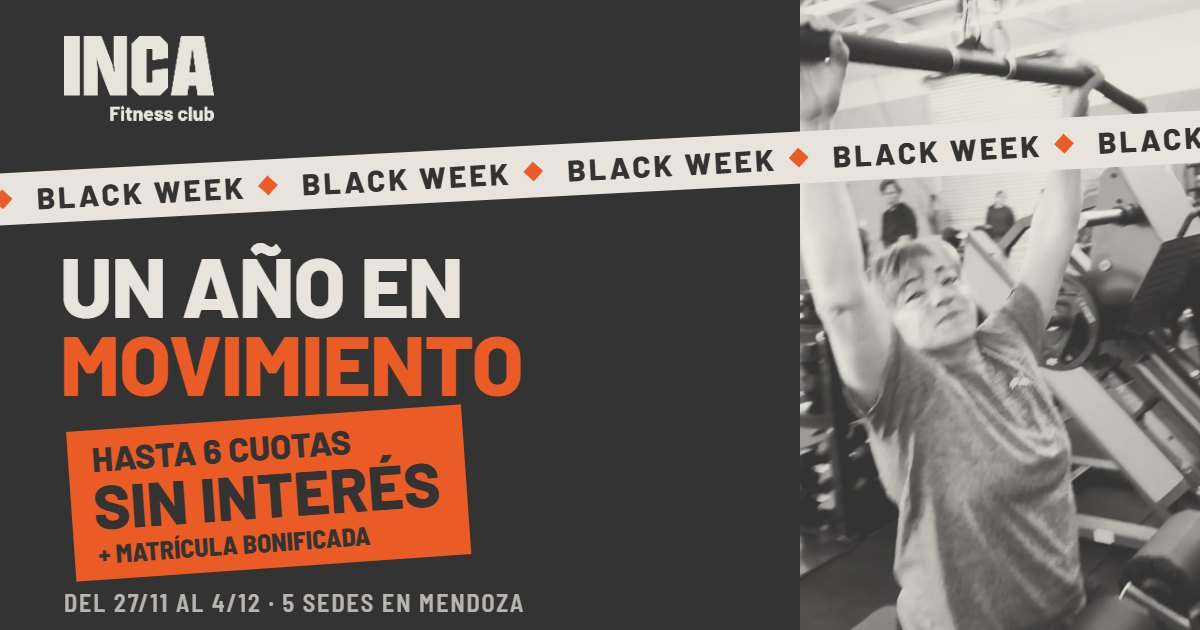
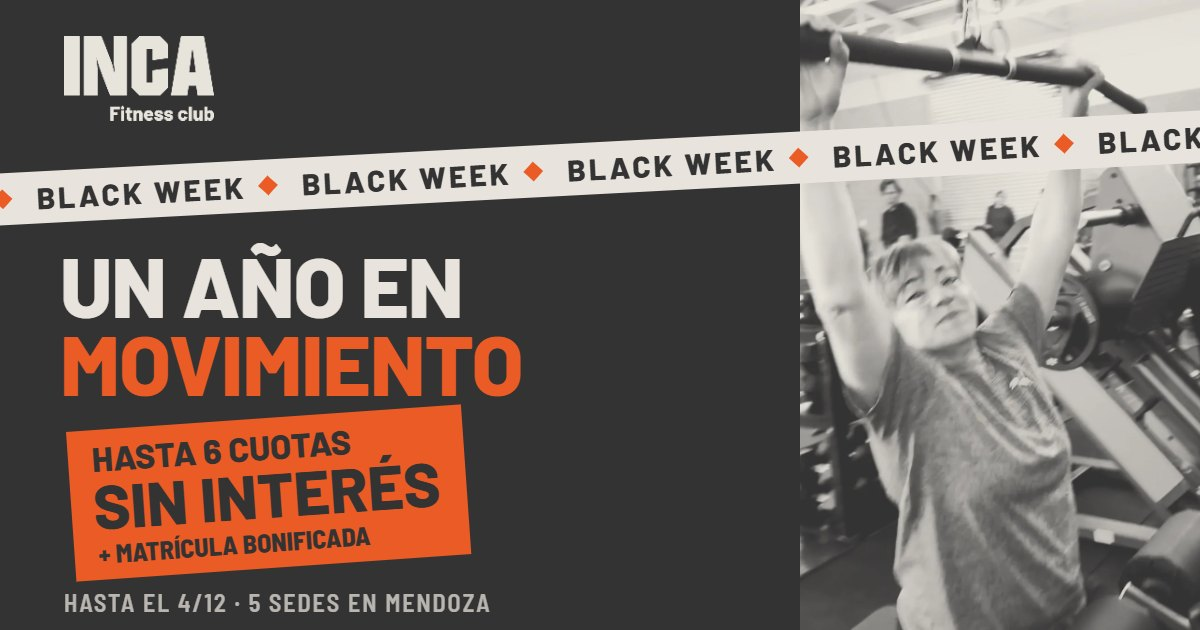
Add files via upload

Changed region(s): [[0.0617, 0.9349, 0.4317, 0.9952]]

diff --git a/index.html b/index.html
@@ -4,7 +4,7 @@
   <meta charset="utf-8">
   <meta name="viewport" content="width=device-width, initial-scale=1, viewport-fit=cover">
   <title>Plan anual · Black Week · Inca Fitness Club</title>
-  <meta name="description" content="Black Week en Inca Fitness Club: plan anual con matrícula bonificada y hasta 6 cuotas sin interés. Del viernes 27/11 al viernes 4/12 en las 5 sedes de Mendoza.">
+  <meta name="description" content="Black Week en Inca Fitness Club: plan anual con matrícula bonificada y hasta 6 cuotas sin interés. Hasta el viernes 4/12 en las 5 sedes de Mendoza.">
   <meta name="theme-color" content="#343333">
   <link rel="canonical" href="https://promociones.incafitnessclub.com/">
 
@@ -13,7 +13,7 @@
   <meta property="og:locale" content="es_AR">
   <meta property="og:site_name" content="Inca Fitness Club">
   <meta property="og:title" content="Black Week Inca · Un año en movimiento">
-  <meta property="og:description" content="Plan anual con matrícula bonificada y hasta 6 cuotas sin interés. Del 27/11 al 4/12 en las 5 sedes de Mendoza.">
+  <meta property="og:description" content="Plan anual con matrícula bonificada y hasta 6 cuotas sin interés. Hasta el 4/12 en las 5 sedes de Mendoza.">
   <meta property="og:url" content="https://promociones.incafitnessclub.com/">
   <meta property="og:image" content="https://promociones.incafitnessclub.com/assets/img/og-imagen.jpg">
   <meta property="og:image:width" content="1200">
@@ -31,7 +31,7 @@
   <link rel="preload" href="assets/video/inca-sede-poster.webp" as="image" type="image/webp">
   <link rel="stylesheet" href="css/styles.css?v=3">
   <script>document.documentElement.className=document.documentElement.className.replace('no-js','js');</script>
-  <script src="promos.js?v=4" defer></script>
+  <script src="promos.js?v=5" defer></script>
   <script src="js/main.js?v=3" defer></script>
 </head>
 <body>
@@ -72,7 +72,7 @@
 
     <div class="portada__accion">
       <div class="contador" data-contador>
-        <p class="contador__label" data-contador-label>Del viernes 27/11 al viernes 4/12</p>
+        <p class="contador__label" data-contador-label>Termina el viernes 4/12 · 23:59</p>
         <div class="contador__cajas" data-contador-cajas hidden aria-hidden="true">
           <span class="contador__caja"><b data-c="d">0</b><small>días</small></span>
           <span class="contador__caja"><b data-c="h">00</b><small>horas</small></span>
@@ -114,7 +114,7 @@
       <li>Plan anual, 12 meses para entrenar en la sede donde lo adquirís.</li>
       <li>Precio final: $780.000 en todas las sedes, con matrícula bonificada.</li>
       <li>Con tarjeta de crédito, en 1, 3 o 6 cuotas sin interés, según las tarjetas habilitadas en el portal de pago. También por débito directo (CBU).</li>
-      <li>Promo válida para compras del viernes 27/11/2026 a las 00:00 al viernes 4/12/2026 a las 23:59 (hora de Argentina).</li>
+      <li>Promo válida para compras realizadas hasta el viernes 4/12/2026 a las 23:59 (hora de Argentina).</li>
     </ul>
   </div>
 </section>
@@ -225,7 +225,7 @@
     <div class="faq__lista" data-reveal>
       <details class="pregunta">
         <summary>¿Hasta cuándo puedo comprar la promo?</summary>
-        <p>Del viernes 27/11 a las 00:00 al viernes 4/12 a las 23:59 (hora de Argentina).</p>
+        <p>Hasta el viernes 4/12 a las 23:59 (hora de Argentina).</p>
       </details>
       <details class="pregunta">
         <summary>¿Cuánto sale?</summary>
@@ -275,7 +275,7 @@
   <div class="wrap cierre__inner">
     <p class="sello sello--carbon" data-sello aria-hidden="true"><span class="sello__a" data-sello-cierre>Hasta el viernes 4/12 · 23:59</span></p>
     <h2 class="titulo cierre__titulo" id="titulo-cierre" data-titulo><span>Tu año en movimiento empieza con un sí</span></h2>
-    <p class="estado estado--cierre" data-estado aria-live="polite">Promo válida del viernes 27/11 al viernes 4/12.</p>
+    <p class="estado estado--cierre" data-estado aria-live="polite">Promo válida hasta el viernes 4/12 a las 23:59.</p>
     <a class="btn btn--carbon" href="#sedes" data-abrir-sedes>
       <span class="btn__txt" data-cta-texto>Quiero mi plan anual</span>
       <svg class="btn__flecha" viewBox="0 0 24 24" fill="none" stroke="currentColor" stroke-width="3" aria-hidden="true"><path d="M4 12h15M13 5l7 7-7 7"/></svg>
@@ -298,7 +298,7 @@
     </div>
     <div class="pie__legal">
       <h2 class="pie__titulo">Condiciones generales</h2>
-      <p>Promo Black Week válida para compras realizadas del 27/11/2026 a las 00:00 al 4/12/2026 a las 23:59 (hora de Argentina), o hasta que Inca Fitness Club la dé por finalizada. Plan anual de 12 meses para una sola sede, elegida al momento de la compra. Precio final: $780.000 en pesos argentinos, con matrícula bonificada. Pago online a través de PagoTIC: tarjeta de crédito en 1, 3 o 6 cuotas sin interés según las tarjetas habilitadas, o débito directo (CBU). Datos de cada razón social en <a href="terminos.html" style="color:var(--crema)">Términos y condiciones</a>.</p>
+      <p>Promo Black Week válida para compras realizadas hasta el 4/12/2026 a las 23:59 (hora de Argentina), o hasta que Inca Fitness Club la dé por finalizada. Plan anual de 12 meses para una sola sede, elegida al momento de la compra. Precio final: $780.000 en pesos argentinos, con matrícula bonificada. Pago online a través de PagoTIC: tarjeta de crédito en 1, 3 o 6 cuotas sin interés según las tarjetas habilitadas, o débito directo (CBU). Datos de cada razón social en <a href="terminos.html" style="color:var(--crema)">Términos y condiciones</a>.</p>
       <ul class="pie__links">
         <li><a href="terminos.html">Términos y condiciones</a></li>
         <li><a href="https://www.argentina.gob.ar/produccion/defensadelconsumidor/formulario" rel="noopener" target="_blank">Defensa de las y los Consumidores. Para reclamos ingrese aquí</a></li>

diff --git a/promos.js b/promos.js
@@ -32,9 +32,10 @@ window.INCA = {
     nombre: "Plan anual",
 
     // Fechas de VENTA (hora de Argentina).
-    // Antes de "ventaDesde": la página muestra "Arranca el..." y el botón avisa por WhatsApp.
+    // "ventaDesde" vacío = la promo ya está activa. Si ponés una fecha futura, antes de esa
+    // fecha la página muestra "Arranca el..." y el botón avisa por WhatsApp.
     // Después de "ventaHasta": muestra "La promo terminó".
-    ventaDesde: "2026-11-27T00:00:00-03:00",
+    ventaDesde: "",
     ventaHasta: "2026-12-04T23:59:59-03:00",
 
     // Primera pantalla [REVISAR CON MARKETING]
@@ -65,7 +66,7 @@ window.INCA = {
       "Plan anual, 12 meses para entrenar en la sede donde lo adquirís.",
       "Precio final: $780.000 en todas las sedes, con matrícula bonificada.",
       "Con tarjeta de crédito, en 1, 3 o 6 cuotas sin interés, según las tarjetas habilitadas en el portal de pago. También por débito directo (CBU).",
-      "Promo válida para compras del viernes 27/11/2026 a las 00:00 al viernes 4/12/2026 a las 23:59 (hora de Argentina)."
+      "Promo válida para compras realizadas hasta el viernes 4/12/2026 a las 23:59 (hora de Argentina)."
     ]
   },
 

diff --git a/terminos.html b/terminos.html
@@ -37,7 +37,7 @@
   <p>Un plan anual de entrenamiento de 12 meses para la sede donde se adquiere, con la matrícula bonificada.</p>
 
   <h2>3. Cuándo se puede comprar</h2>
-  <p>Del viernes 27/11/2026 a las 00:00 al viernes 4/12/2026 a las 23:59, hora de Argentina, o hasta que Inca Fitness Club la dé por finalizada, lo que ocurra primero.</p>
+  <p>Desde la publicación de esta página hasta el viernes 4/12/2026 a las 23:59, hora de Argentina, o hasta que Inca Fitness Club la dé por finalizada, lo que ocurra primero.</p>
 
   <h2>4. Precio y formas de pago</h2>
   <p>El precio final del plan es de <strong>$780.000</strong> en todas las sedes. Equivale a $65.000 por mes durante los 12 meses. La matrícula está bonificada.</p>

diff --git a/arrepentimiento.html b/arrepentimiento.html
@@ -10,7 +10,7 @@
   <link rel="apple-touch-icon" href="assets/img/apple-touch-icon.png">
   <link rel="stylesheet" href="css/styles.css?v=3">
   <script>document.documentElement.className=document.documentElement.className.replace('no-js','js');</script>
-  <script src="promos.js?v=4" defer></script>
+  <script src="promos.js?v=5" defer></script>
 </head>
 <body class="pagina-legal">
 
